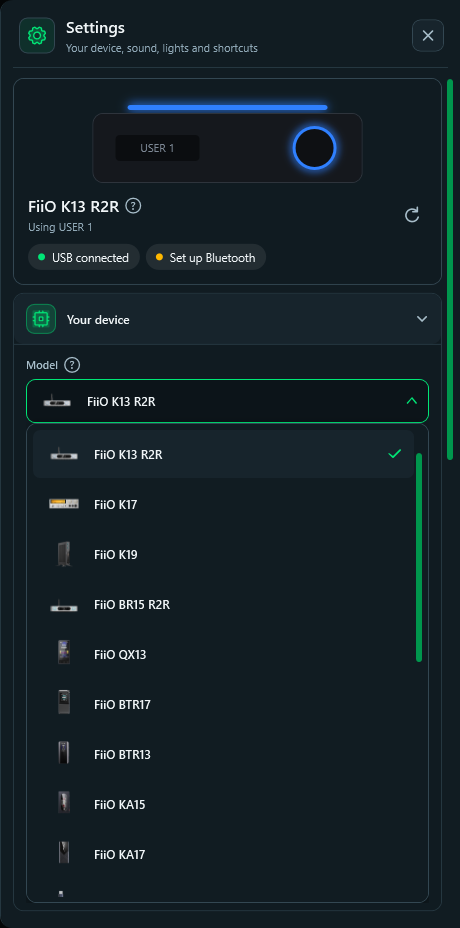
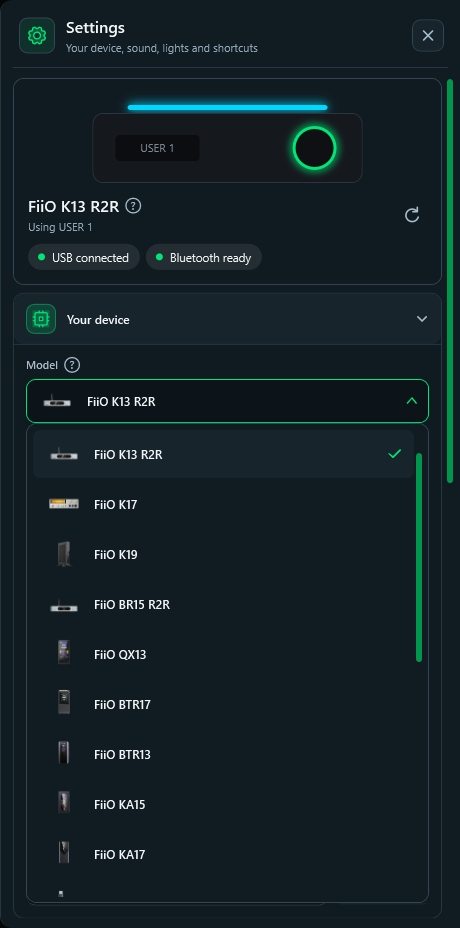
1.0.0: keep Bluetooth on a new USB path, release notes, screenshots
- Same model on a new USB path keeps Bluetooth, slot names and lights
- Tests no longer touch the saved device, slot names or lights
- 1.0.0 release notes, changelog, README links and new screenshots

Changed region(s): [[0.2739, 0.0938, 0.7609, 0.1875], [0.3348, 0.25, 0.5478, 0.2812], [0.9739, 0.5, 1.0, 0.5312]]

diff --git a/tests/WolfEQ.Tests/QuickDeviceSwitchTests.cs b/tests/WolfEQ.Tests/QuickDeviceSwitchTests.cs
@@ -66,5 +66,49 @@ public sealed class QuickDeviceSwitchTests : IDisposable
         Assert.True(model.HasOnlySystemEqQuickDevice);
     }
 
+    private const string OldPath = @"\\?\hid#vid_2972&pid_0120&mi_03&col01#9&1b9fa339&0&0000#{4d1e55b2}";
+    private const string NewPath = @"\\?\hid#vid_2972&pid_0120&rev_0115&mi_03&col01#9&e644be4&0&0000#{4d1e55b2}";
+
+    [Theory]
+    [InlineData(OldPath, NewPath, true)]
+    [InlineData(OldPath, OldPath, false)]
+    [InlineData(OldPath, @"\\?\hid#vid_2972&pid_0104&mi_03&col01#9&1&0&0000#{4d1e55b2}", false)]
+    [InlineData(OldPath, @"\\?\hid#vid_2972&pid_0120&mi_03&col02#9&1&0&0001#{4d1e55b2}", false)]
+    [InlineData(null, NewPath, false)]
+    public void RecognisesTheSameModelOnANewPath(string? before, string after, bool same)
+        => Assert.Equal(same, DeviceBindingSettings.IsSameModelOnNewPath(before, after));
+
+    [Theory]
+    [InlineData(false, true)]
+    [InlineData(true, false)]
+    public async Task MovedDeviceKeepsBluetoothNamesAndLights(bool oldUnitStillPluggedIn, bool kept)
+    {
+        var old = OldPath.Replace("1b9fa339", Guid.NewGuid().ToString("N"));
+        var moved = NewPath.Replace("e644be4", Guid.NewGuid().ToString("N"));
+        new DeviceSlotNameService().Save(old, FiioDeviceProfiles.K13R2R.Id, 0xA0, "Bass");
+        var lights = new SlotLightingProfileService();
+        lights.SetDevice(old);
+        lights.Save([new SlotLightingProfileData { Slot = 1, TopColor = 3 }]);
+        var model = _rig.CreateModel();
+        model.SelectedDeviceProfile = FiioDeviceProfiles.K13R2R;
+        var field = typeof(MainViewModel).GetField("_binding", System.Reflection.BindingFlags.Instance | System.Reflection.BindingFlags.NonPublic)!;
+        field.SetValue(model, new DeviceBindingSettings { UsbPath = old, Name = "Desk", BluetoothAddress = 0xAABB, BluetoothName = "FIIO K13 R2R" });
+        model.QuickDeviceConnectOverride = () => Task.CompletedTask;
+        var plugged = new List<HidDeviceCandidate> { Candidate(moved, 0x0120, "FiiO K13 R2R") };
+        if (oldUnitStillPluggedIn) plugged.Add(Candidate(old, 0x0120, "FiiO K13 R2R"));
+        model.QuickDeviceScanOverride = () => Task.FromResult<IReadOnlyList<HidDeviceCandidate>>(plugged);
+        await model.RefreshQuickDevicesAsync();
+
+        model.SwitchToQuickDeviceCommand.Execute(model.QuickDevices.Single(device => device.UsbPath == moved));
+
+        var binding = (DeviceBindingSettings)field.GetValue(model)!;
+        Assert.Equal(moved, binding.UsbPath);
+        Assert.Equal(kept ? 0xAABBul : null, binding.BluetoothAddress);
+        Assert.Equal(kept, binding.Name == "Desk");
+        Assert.Equal(kept, new DeviceSlotNameService().Load(moved, FiioDeviceProfiles.K13R2R.Id).ContainsKey(0xA0));
+        lights.SetDevice(moved);
+        Assert.Equal(kept, lights.Load().TryGetValue(1, out var light) && light.TopColor == 3);
+    }
+
     public void Dispose() => _rig.Dispose();
 }

diff --git a/ViewModels/MainViewModel.QuickSwitch.cs b/ViewModels/MainViewModel.QuickSwitch.cs
@@ -152,6 +152,27 @@ public sealed partial class MainViewModel
         return options;
     }
 
+    /// <summary>Same model, and neither the old unit nor a second identical one is plugged in.</summary>
+    private bool IsMovedDevice(string? newPath, IEnumerable<string?> pluggedIn)
+        => DeviceBindingSettings.IsSameModelOnNewPath(_binding.UsbPath, newPath)
+           && !pluggedIn.Any(path => !string.Equals(path, newPath, StringComparison.OrdinalIgnoreCase)
+               && (string.Equals(path, _binding.UsbPath, StringComparison.OrdinalIgnoreCase)
+                   || DeviceBindingSettings.IsSameModelOnNewPath(newPath, path)));
+
+    private void CarryOverDeviceData(string oldPath, string newPath)
+    {
+        try
+        {
+            _slotNames.CopyToNewPath(oldPath, newPath, SelectedDeviceProfile.Id);
+            SlotLightingProfileService.CopyToNewPath(oldPath, newPath);
+            AddLog("Same device on a new USB path: kept its Bluetooth, slot names and lights.");
+        }
+        catch (Exception ex) when (ex is System.IO.IOException or UnauthorizedAccessException)
+        {
+            AddLog($"Could not carry over slot names or lights: {ex.Message}");
+        }
+    }
+
     private async Task SwitchToQuickDeviceAsync(QuickDeviceOption option)
     {
         if (option.IsCurrent)
@@ -185,11 +206,16 @@ public sealed partial class MainViewModel
 
         if (!string.Equals(option.UsbPath, _binding.UsbPath, StringComparison.OrdinalIgnoreCase))
         {
-            // A different physical unit: its Bluetooth pairing would belong to the old one.
+            // The same unit on a new USB path keeps its Bluetooth, slot names and lights. A different unit
+            // does not: the Bluetooth pairing would belong to the old one.
+            var moved = IsMovedDevice(option.UsbPath, QuickDevices.Select(device => device.UsbPath));
+            if (moved) CarryOverDeviceData(_binding.UsbPath!, option.UsbPath!);
             _binding = new DeviceBindingSettings
             {
                 UsbPath = option.UsbPath,
-                Name = option.Profile.DisplayName,
+                Name = moved ? _binding.Name : option.Profile.DisplayName,
+                BluetoothAddress = moved ? _binding.BluetoothAddress : null,
+                BluetoothName = moved ? _binding.BluetoothName : new DeviceBindingSettings().BluetoothName,
                 AutoSlotLighting = _binding.AutoSlotLighting
             };
             SaveBinding();

diff --git a/Services/DeviceBindingSettings.cs b/Services/DeviceBindingSettings.cs
@@ -1,5 +1,6 @@
 using System.IO;
 using System.Text.Json;
+using System.Text.RegularExpressions;
 
 namespace WolfEQ.Services;
 
@@ -10,8 +11,30 @@ public sealed class DeviceBindingSettings
     public string BluetoothName { get; set; } = "K13";
     public string Name { get; set; } = "Desk K13";
     public bool AutoSlotLighting { get; set; }
-    private static string SettingsPath => Path.Combine(Environment.GetFolderPath(
-        Environment.SpecialFolder.LocalApplicationData), "WolfEQ", "device-binding.json");
+    /// <summary>Test hook: keeps tests away from the user's saved device, slot names and lights.</summary>
+    internal static string? DataDirectoryOverride { get; set; }
+
+    internal static string DataDirectory => DataDirectoryOverride ?? Path.Combine(
+        Environment.GetFolderPath(Environment.SpecialFolder.LocalApplicationData), "WolfEQ");
+
+    private static string SettingsPath => Path.Combine(DataDirectory, "device-binding.json");
+
+    /// <summary>
+    /// True when a USB path changed but still names the same model and interface. Windows changes the rest of the path
+    /// after a driver update or on another port, and may add a revision (rev_0115).
+    /// </summary>
+    internal static bool IsSameModelOnNewPath(string? oldPath, string? newPath)
+    {
+        if (string.IsNullOrWhiteSpace(oldPath) || string.IsNullOrWhiteSpace(newPath)
+            || string.Equals(oldPath, newPath, StringComparison.OrdinalIgnoreCase)) return false;
+        static string? Part(string path, string key)
+        {
+            var match = Regex.Match(path, $@"[#&]{key}_?([0-9a-f]+)(?=[#&])", RegexOptions.IgnoreCase);
+            return match.Success ? match.Groups[1].Value.ToUpperInvariant() : null;
+        }
+        return Part(oldPath, "vid") is not null && Part(oldPath, "pid") is not null
+            && new[] { "vid", "pid", "mi", "col" }.All(key => Part(oldPath, key) == Part(newPath, key));
+    }
 
     public static DeviceBindingSettings Load()
     {

diff --git a/Services/SlotLightingProfileService.cs b/Services/SlotLightingProfileService.cs
@@ -9,20 +9,26 @@ public sealed class SlotLightingProfileService
 
     public SlotLightingProfileService()
     {
-        StoragePath = Path.Combine(
-            Environment.GetFolderPath(Environment.SpecialFolder.LocalApplicationData),
-            "WolfEQ",
-            "slot-lighting.json");
+        StoragePath = Path.Combine(DeviceBindingSettings.DataDirectory, "slot-lighting.json");
     }
 
     public string StoragePath { get; private set; }
 
-    public void SetDevice(string? devicePath)
+    public void SetDevice(string? devicePath) => StoragePath = PathFor(devicePath);
+
+    /// <summary>Carries a device's lights to its new USB path. Never replaces lights already there.</summary>
+    public static void CopyToNewPath(string oldPath, string newPath)
+    {
+        var source = PathFor(oldPath);
+        var target = PathFor(newPath);
+        if (File.Exists(source) && !File.Exists(target)) File.Copy(source, target);
+    }
+
+    private static string PathFor(string? devicePath)
     {
         var key = string.IsNullOrEmpty(devicePath) ? "unassigned" : Convert.ToHexString(
             System.Security.Cryptography.SHA256.HashData(System.Text.Encoding.UTF8.GetBytes(devicePath.ToUpperInvariant())))[..24];
-        StoragePath = Path.Combine(Environment.GetFolderPath(Environment.SpecialFolder.LocalApplicationData),
-            "WolfEQ", $"slot-lighting-{key}.json");
+        return Path.Combine(DeviceBindingSettings.DataDirectory, $"slot-lighting-{key}.json");
     }
 
     public IReadOnlyDictionary<int, SlotLightingProfileData> Load()

diff --git a/Services/DeviceSlotNameService.cs b/Services/DeviceSlotNameService.cs
@@ -8,8 +8,7 @@ namespace WolfEQ.Services;
 /// <summary>Local labels for the last EQ written to each physical device's slots.</summary>
 public sealed class DeviceSlotNameService(string? directory = null)
 {
-    private readonly string _directory = directory ?? Path.Combine(
-        Environment.GetFolderPath(Environment.SpecialFolder.LocalApplicationData), "WolfEQ");
+    private readonly string _directory = directory ?? DeviceBindingSettings.DataDirectory;
 
     private string FilePath(string devicePath, string profileId)
     {
@@ -25,6 +24,14 @@ public sealed class DeviceSlotNameService(string? directory = null)
         if (!File.Exists(path)) return [];
         var json = BoundedTextReader.ReadAllText(path, BoundedTextReader.SettingsMaxBytes, "Device slot names");
         return JsonSerializer.Deserialize<Dictionary<byte, string>>(json) ?? [];
+    }
+
+    /// <summary>Carries a device's names to its new USB path. Never replaces names already there.</summary>
+    public void CopyToNewPath(string oldPath, string newPath, string profileId)
+    {
+        var source = FilePath(oldPath, profileId);
+        var target = FilePath(newPath, profileId);
+        if (File.Exists(source) && !File.Exists(target)) File.Copy(source, target);
     }
 
     public void Save(string devicePath, string profileId, byte slotId, string name)

diff --git a/tests/WolfEQ.Tests/TestEnvironment.cs b/tests/WolfEQ.Tests/TestEnvironment.cs
@@ -23,6 +23,8 @@ internal static class TestEnvironment
         WolfEQ.Services.BackgroundThemeService.PreferencePathOverride = Path.Combine(root, "background-theme.txt");
         // View checks star, rename and delete presets; never let that touch the real library.
         WolfEQ.Services.LocalPresetLibraryService.DefaultPathOverride = Path.Combine(root, "profiles.json");
+        // Saved device, slot names and lights.
+        WolfEQ.Services.DeviceBindingSettings.DataDirectoryOverride = root;
         SystemEqServices.DefaultOverride = () => new SystemEqServices(
             new NullEqOutputBackend(),
             new EmptyAudioEndpointCatalog(),

diff --git a/ViewModels/MainViewModel.Integrations.cs b/ViewModels/MainViewModel.Integrations.cs
@@ -288,6 +288,8 @@ public sealed partial class MainViewModel
             BluetoothName = _binding.BluetoothName,
             AutoSlotLighting = _binding.AutoSlotLighting
         };
+        if (IsMovedDevice(SelectedUsbDevice.Path, UsbDevices.Select(device => (string?)device.Path)))
+            CarryOverDeviceData(_binding.UsbPath!, SelectedUsbDevice.Path);
         updated.Save();
         _binding = updated;
         ApplyBinding();

diff --git a/CHANGELOG.md b/CHANGELOG.md
@@ -2,19 +2,32 @@
 
 ## v1.0.0
 
+WolfEQ reaches 1.0. Every band has its own color, your cursor becomes part of the knob you turn, and 19 devices are supported, including the first from outside FiiO.
+
 ### ✨ New
 
-- 🌈 **A color for every band** — Graph nodes, faders, knobs and the band editor share one color per band, warm lows to cool highs. The band you select or hover shows its own shaded shape.
-- 🎚 **Knobs view** — The new default Band controls view, ahead of Faders and Table. Turn gain, frequency and width, or type exact values. Tiles keep their place while you turn a knob.
-- 🎧 **More devices** — Added the JadeAudio JIEZI and Snowsky Tiny A, and corrected the Retro Nano's width limits and filter list. Measurements by the Contour project.
-- **Tidier settings** — Settings only show what your device supports. Volume limit, balance and high gain are gone: the K13 does not accept them from a PC.
-- 🎧 **First non-FiiO DACs** — Added the TRN Black Pearl, CrinEar Protocol Max and Tanchjim SPACE II. Every save is read back and checked.
+- 🌈 **A color for every band** — Graph points, knobs, faders and the band editor share one color per band, warm lows to cool highs.
+- 🎚 **Knobs** — The new default Band controls view. Your cursor flies into the knob and the light follows it around the dial. Type exact values any time.
+- 🪽 **Width wings** — The selected band's wings follow the curve. Drag a tip, or scroll even while dragging a point, to make it wider or narrower.
+- 🔢 **Live readout** — Frequency, gain and Q appear beside a point as you drag it.
+- 🎧 **More devices** — TRN Black Pearl, CrinEar Protocol Max, Tanchjim SPACE II, JadeAudio JIEZI and Snowsky Tiny A. On the first three, every save is read back and checked.
+- 🖼 **Real pictures** — Every device has its own picture.
+- 🎛 **Tidier settings** — Settings show only what your device supports. Volume limit, balance and high gain are gone: the K13 did not respond to them from a PC.
 
 ### 🐞 Fixed
 
-- 🔊 **KA15, JA11 and Melody level** — Saved EQs played 12 dB too quiet. The preamp now matches what you set, from -24 to 0 dB. **Expect these to sound louder after your next save, so turn the volume down first.**
-- 🛡 **Safer saving on BTR17, K17 and K19** — These now save with FiiO's standard command. The old one is a factory reset on other FiiO models.
-- **KA15 and JA11** — Loading from a slot no longer waits on a command these devices never answer.
+- 🔊 **KA15, JA11 and Melody level** — Saved EQs played 12 dB too quiet. The preamp now matches what you set, from -24 to 0 dB.
+- 🛡 **Safer saving on BTR17, K17 and K19** — These now save with FiiO's standard command. The old one is a factory reset on other FiiO models, so please update before saving to these.
+- 📶 **Bluetooth stays saved** — If Windows gives your device a new USB path, picking it again keeps its Bluetooth, slot names and lights.
+- ⏱ **KA15 and JA11** — Loading from a slot no longer waits on a command these devices never answer.
+- 📏 **Retro Nano** — Corrected width limits and filter list.
+
+### ⚠ Good to know
+
+- **KA15, JA11 and Melody owners:** your next save will sound about 12 dB louder than before. **Turn the volume down first.**
+- WolfEQ is developed on the K13 R2R. The other devices build on published work by Contour, DevicePEQ and fiioctl. Using one? Start with a low-gain EQ and tell us how it goes, especially on the BTR17, K17 and K19: check that your EQ is still there after a power cycle.
+- The TRN Black Pearl only appears in Windows with headphones plugged in.
+- **Coming from 0.9?** If WolfEQ says your saved device is unavailable, pick it again from the device menu.
 
 ## v0.9.0-beta
 

diff --git a/docs/releases/v1.0.0.md b/docs/releases/v1.0.0.md
@@ -1,0 +1,44 @@
+# 🎧 WolfEQ 1.0 — Every band in color
+
+WolfEQ reaches 1.0. Every band has its own color, your cursor becomes part of the knob you turn, and 19 devices are supported, including the first from outside FiiO.
+
+![WolfEQ 1.0 editor with colored bands, knobs and live spectrum](https://github.com/audioslayer/wolfeq/raw/v1.0.0/docs/images/editor-1.0.png)
+
+## ✨ New
+
+- 🌈 **A color for every band** — Graph points, knobs, faders and the band editor share one color per band, warm lows to cool highs.
+- 🎚 **Knobs** — The new default Band controls view. Your cursor flies into the knob and the light follows it around the dial. Type exact values any time.
+- 🪽 **Width wings** — The selected band's wings follow the curve. Drag a tip, or scroll even while dragging a point, to make it wider or narrower.
+- 🔢 **Live readout** — Frequency, gain and Q appear beside a point as you drag it.
+- 🎧 **More devices** — TRN Black Pearl, CrinEar Protocol Max, Tanchjim SPACE II, JadeAudio JIEZI and Snowsky Tiny A. On the first three, every save is read back and checked.
+- 🖼 **Real pictures** — Every device has its own picture.
+- 🎛 **Tidier settings** — Settings show only what your device supports. Volume limit, balance and high gain are gone: the K13 did not respond to them from a PC.
+
+## 🐞 Fixed
+
+- 🔊 **KA15, JA11 and Melody level** — Saved EQs played 12 dB too quiet. The preamp now matches what you set, from -24 to 0 dB.
+- 🛡 **Safer saving on BTR17, K17 and K19** — These now save with FiiO's standard command. The old one is a factory reset on other FiiO models, so please update before saving to these.
+- 📶 **Bluetooth stays saved** — If Windows gives your device a new USB path, picking it again keeps its Bluetooth, slot names and lights.
+- ⏱ **KA15 and JA11** — Loading from a slot no longer waits on a command these devices never answer.
+- 📏 **Retro Nano** — Corrected width limits and filter list.
+
+## ⚠ Good to know
+
+- **KA15, JA11 and Melody owners:** your next save will sound about 12 dB louder than before. **Turn the volume down first.**
+- WolfEQ is developed on the K13 R2R. The other devices build on published work by Contour, DevicePEQ and fiioctl. Using one? Start with a low-gain EQ and tell us how it goes, especially on the BTR17, K17 and K19: check that your EQ is still there after a power cycle.
+- The TRN Black Pearl only appears in Windows with headphones plugged in.
+- **Coming from 0.9?** If WolfEQ says your saved device is unavailable, pick it again from the device menu.
+
+## 🚀 Downloads
+
+| Asset | Use it for |
+|---|---|
+| **WolfEQ-Setup-1.0.0.exe** | Install on Windows 10/11 x64. |
+| **WolfEQ-1.0.0-win-x64.zip** | Portable: extract everything and run WolfEQ.exe. |
+| **SHA256SUMS.txt** | Verify your download. |
+
+Both include the .NET runtime and the official Equalizer APO 1.4.2 installer. Equalizer APO is a separate GPL-2.0 program by Jonas Thedering, bundled unmodified; see THIRD_PARTY_NOTICES.md. Your presets, settings and saved devices carry over.
+
+---
+
+💚 Tell us how it sounds in the [WolfEQ Discord channel](https://discord.com/channels/1467241109657751737/1503967391581995069) or [report an issue](https://github.com/audioslayer/wolfeq/issues).

diff --git a/README.md b/README.md
@@ -35,7 +35,7 @@ Every band has its own color, and the light follows your hand. Grab a knob or a 
 <table>
   <tr>
     <td width="50%"><img src="docs/images/settings-1.0.png" alt="Settings with the device card and color-coded sections" /></td>
-    <td width="50%"><img src="docs/images/lights-0.9.png" alt="Lights editor with K13 preview, effects and colors" /></td>
+    <td width="50%"><img src="docs/images/lights-1.0.png" alt="Lights editor with K13 preview, effects and colors" /></td>
   </tr>
   <tr>
     <td align="center"><em>Settings: your device first</em></td>
@@ -70,10 +70,10 @@ Choose **Settings → Look → Background**. Background mode is saved, and accen
 
 ## 🚀 Download
 
-**[Get the latest release](https://github.com/audioslayer/wolfeq/releases/latest)** — 1.0 is on its way; the current download is 0.9.0 beta.
+**[Get the latest release](https://github.com/audioslayer/wolfeq/releases/latest)**
 
-- **[Windows x64 installer](https://github.com/audioslayer/wolfeq/releases/download/v0.9.0-beta/WolfEQ-Setup-0.9.0-beta.exe)** — normal installation and shortcuts.
-- **[Portable Windows x64 ZIP](https://github.com/audioslayer/wolfeq/releases/download/v0.9.0-beta/WolfEQ-0.9.0-beta-win-x64.zip)** — extract everything, then run `WolfEQ.exe`.
+- **[Windows x64 installer](https://github.com/audioslayer/wolfeq/releases/download/v1.0.0/WolfEQ-Setup-1.0.0.exe)** — normal installation and shortcuts.
+- **[Portable Windows x64 ZIP](https://github.com/audioslayer/wolfeq/releases/download/v1.0.0/WolfEQ-1.0.0-win-x64.zip)** — extract everything, then run `WolfEQ.exe`.
 - Both include the .NET runtime and the official Equalizer APO 1.4.2 x64 installer for Software EQ. SHA-256 checksums are supplied with the release.
 
 ## 🔌 First session
